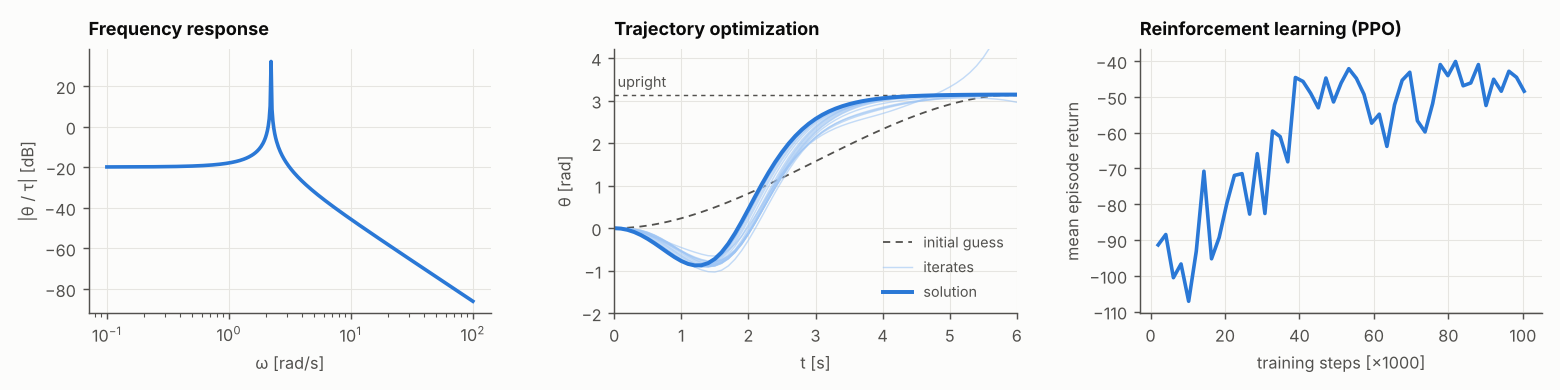
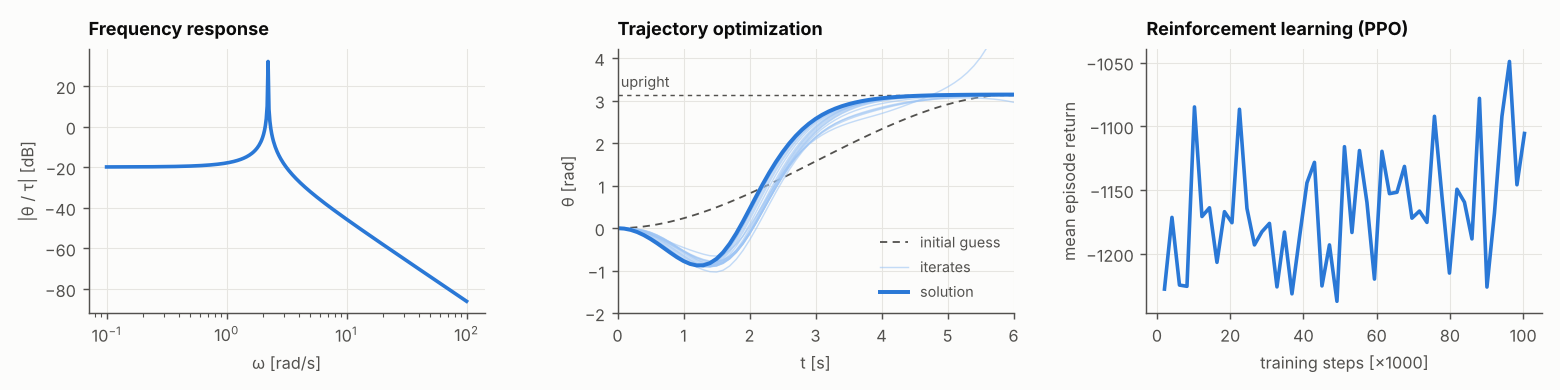
README: one problem through the planners, a custom block, minimal prose
The swing-up problem is the one every tool of sections 2 and 3 takes:
trajectory optimization, PPO (now trained on it, with gamma given so it
does not warn), value iteration, RRT and MPC; its stochastic version
evaluates them. 'Score' becomes evaluation and expected cost. A custom
block follows the first diagram: a class with f and h. The backbone is
one sentence and the map; the program equation that reused g and h, the
unused claims and the promotional phrases are gone; the learn-more list
is four lines, with plant.animate written as the method it is. From
three independent reviews and the maintainer's own.

diff --git a/docs/make_assets.py b/docs/make_assets.py
@@ -122,16 +122,9 @@ def breadth_strip() -> None:
     """The README's one equation, many tools: the frequency response, trajectory optimization, PPO."""
     import matplotlib.pyplot as plt
 
-    from minilink import (
-        Pendulum,
-        PlanningProblem,
-        QuadraticCost,
-        ReinforcementLearningPlanner,
-        Uniform,
-    )
+    from minilink import Pendulum, ReinforcementLearningPlanner
 
     plant = Pendulum()
-    up = np.array([np.pi, 0.0])
 
     # G(jω) = C (jωI − A)⁻¹ B about the hanging rest, the angle per torque
     A = plant.jacobian("f", "x", np.zeros(2))
@@ -142,12 +135,8 @@ def breadth_strip() -> None:
 
     guess, history = swing_up_iterates()
 
-    start = Uniform([np.pi - 0.5, -1.0], [np.pi + 0.5, 1.0])
-    cost = QuadraticCost.from_system(plant, x_bar=up)
-    balance = PlanningProblem(
-        plant, x0=start, cost=cost, horizon=5.0, U=plant.input_box
-    )
-    learner = ReinforcementLearningPlanner(balance, dt=0.05)
+    _, swing_up = readme_problem()
+    learner = ReinforcementLearningPlanner(swing_up, dt=0.05, gamma=0.99)
     learner.solve(n_timesteps=100_000)
     steps = np.array([h["n_timesteps"] for h in learner.history]) / 1e3
     returns = np.array([h["ep_return_mean"] for h in learner.history])

diff --git a/README.md b/README.md
@@ -18,7 +18,7 @@
   <tr>
 <td width="25%" align="center" valign="top">Cart-pole swing-up, trajectory optimization</td>
 <td width="25%" align="center" valign="top">UR5 arm, task-space impedance control<br/><a href="https://alx87grd.github.io/minilink/_static/showcase/ur5_impedance.html">interactive 3-D</a></td>
-<td width="25%" align="center" valign="top"><a href="#3-one-problem-every-planner-one-score">Racecar, model predictive control</a><br/><a href="https://alx87grd.github.io/minilink/_static/showcase/racecar_mpc.html">interactive 3-D</a></td>
+<td width="25%" align="center" valign="top"><a href="#3-one-problem-every-planner-one-evaluation">Racecar, model predictive control</a><br/><a href="https://alx87grd.github.io/minilink/_static/showcase/racecar_mpc.html">interactive 3-D</a></td>
 <td width="25%" align="center" valign="top">Rocket landing, reinforcement learning</td>
   </tr>
 </table>
@@ -48,6 +48,28 @@ diagram.plot_diagram()
 
 ![closed-loop diagram](./docs/_static/diagram_closed_loop.png)
 
+**Custom block:** just define `f` and `h`.
+
+```python
+import numpy as np
+from minilink import DynamicSystem
+
+
+class MyPendulum(DynamicSystem):
+    def __init__(self):
+        super().__init__(state_dim=2, input_dim=1, output_dim=1)
+
+    def f(self, x, u, t=0, params=None):
+        theta, dtheta = x
+        return np.array([dtheta, u[0] - 9.81 * np.sin(theta)])
+
+    def h(self, x, u, t=0, params=None):
+        return x[:1]
+
+
+diagram = pid @ MyPendulum()
+```
+
 ## 2. One equation, many tools
 
 A model is three pure functions:
@@ -59,11 +81,11 @@ dynamics, outputs and body poses. Stateless, arrays in and arrays out, so every 
 ```python
 import numpy as np
 from minilink import (
-    BallSet, Pendulum, PlanningProblem, QuadraticCost, Uniform,
+    BallSet, Pendulum, PlanningProblem, QuadraticCost,
     ReinforcementLearningPlanner, TrajectoryOptimizationPlanner,
 )
 
-plant = Pendulum()
+plant = Pendulum()  # measures its full state
 up = np.array([np.pi, 0.0])
 plant.plot_bode()
 
@@ -79,23 +101,19 @@ swing_up = PlanningProblem(
 )
 opt = TrajectoryOptimizationPlanner(swing_up, n_steps=60).solve(live_plot=True)
 
-start = Uniform([np.pi - 0.5, -1.0], [np.pi + 0.5, 1.0])
-balance = PlanningProblem(plant, x0=start, cost=cost, horizon=5.0, U=plant.input_box)
-ppo = ReinforcementLearningPlanner(balance, dt=0.05)
+ppo = ReinforcementLearningPlanner(swing_up, dt=0.05, gamma=0.99)
 ppo.solve(n_timesteps=100_000)
 ppo.plot_learning_curve()
 ```
 
 ![Frequency response, trajectory optimization and reinforcement learning on one pendulum](./docs/_static/tool_breadth.png)
 
-The same plant takes `lqr`, `kalman`, value iteration, RRT, MPC, and the rest: each is one more line.
+## 3. One problem, every planner, one evaluation
 
-## 3. One problem, every planner, one score
-
-The identical problem definition is handed to completely different solver paradigms, and every planner returns a `PlanningSolution` whose controller is itself a `System`: a feedback law closes the loop via `controller @ plant`, an open-loop plan drives it via `controller >> plant`. `compare` scores every controller on the same problem: the same model, cost, sets, and draws. Here the swing-up of section 2, with the pendulum's mass uncertain by ±20 %:
+Every planner takes the same problem and returns a controller that is itself a `System`. `compare` evaluates them on the same draws, here with the mass uncertain by ±20 %:
 
 ```python
-from minilink import DynamicProgrammingPlanner, RRTPlanner, compare
+from minilink import DynamicProgrammingPlanner, RRTPlanner, Uniform, compare
 from minilink.control import ModelPredictiveController
 
 vi_planner = DynamicProgrammingPlanner(swing_up, x_grid=(101, 101), u_grid=(11,), dt=0.05)
@@ -114,15 +132,11 @@ comparison.plot_simulated_trajectory()
 
 ![The angular rate of each controller's twenty runs](./docs/_static/comparison_runs.png)
 
-The two open-loop plans reach the goal on the nominal model and miss it when the mass changes (0 of 20 draws); the two feedback laws reach it on most draws (value iteration 20 of 20, MPC 17 of 20).
+The open-loop plans miss the goal once the mass changes (0 of 20); the feedback laws reach it (value iteration 20 of 20, MPC 17 of 20).
 
-## 4. From score to controller
+## 4. From evaluation to controller
 
-All transcriptions lower late to a single, canonical mathematical program:
-
-$$\min_z J(z; p) \quad \text{s.t.} \quad g(z; p) \ge 0, \quad h(z; p) = 0$$
-
-The score of section 3 is such a $J$: a function of every parameter in the diagram, the controller's gains and the plant's numbers alike, named by its path (`"controller.Kp"`, `"plant.m"`). The exact same equation traces under JAX without rewriting physics, so its gradient runs through the whole simulation, and the `Optimizer` tunes the controller on it. Here an impedance law brings the pendulum to rest over the uncertain mass:
+The expected cost is a differentiable function of every parameter in the loop, named by its path, so an `Optimizer` tunes a controller on its gradient. Here an impedance law brings the pendulum to rest under the uncertain mass:
 
 ```python
 import jax
@@ -133,43 +147,32 @@ rest = PlanningProblem(plant, x0=[2.0, 0.0], horizon=5.0, cost=rest_cost)
 task = rest.replace(distributions={"plant": {"m": mass}})
 evaluator = task.compile(Impedance(Kp=1.0, Kd=1.0), backend="jax")
 
-score = lambda params: evaluator.evaluate(params, n_trials=20).objective
-gradient = jax.grad(score)(evaluator.params)
+expected_cost = lambda params: evaluator.evaluate(params, n_trials=20).objective
+gradient = jax.grad(expected_cost)(evaluator.params)  # through the whole simulation
 
 gains = ["controller.Kp", "controller.Kd"]
 bounds = {"controller.Kp": (0.0, 50.0), "controller.Kd": (0.0, 20.0)}
 program = evaluator.program(gains, bounds=bounds, n_trials=20)
-best = Optimizer(program).solve()  # Kp = 0.78, Kd = 3.54: the score falls from 19.3 to 11.0
+best = Optimizer(program).solve()  # Kp = 0.78, Kd = 3.54; expected cost 19.3 → 11.0
 ```
-
-- **Pluggable solvers:** `method=` picks one: `l-bfgs`, `slsqp`, `trust-constr` (SciPy), `gd`, `adam` (first-order), `ipopt`.
-- **Opt-in acceleration:** pure NumPy remains the default classroom engine; JAX is activated with a single flag (`backend="jax"`), and batches 1,000 rollouts in 0.4 s on a cloud CPU against about 50 s in a NumPy loop.
 
 ## The Minilink backbone
 
-Three mathematical foundations hold the framework together:
-1. **The model (`System`):** continuous differential equations $\dot{x} = f(x, u, t; p)$ and observations $y = h(x, u, t; p)$.
-2. **The task (`PlanningProblem`):** the model paired with boundary sets $\mathcal{X}, \mathcal{U}, \mathcal{X}_f$, cost $J$, and time horizon $t_f$.
-3. **The solver boundary (`MathematicalProgram` & `Optimizer`):** a standard nonlinear program $\min_z J(z)$ s.t. $g(z) \ge 0,\ h(z) = 0$ connecting problems to plug-and-play numerical solvers.
-
-One differentiable path connects modeling, analytical control, trajectory optimization, and learning:
+Three objects hold it together: the model (`System`), the task (`PlanningProblem`) and the solver (`MathematicalProgram` and `Optimizer`).
 
 ![The Minilink Backbone](./docs/_static/pipeline_map.png)
 
-*Full pipeline reference: [docs/pipelines.md](https://github.com/alx87grd/minilink/blob/main/docs/pipelines.md).*
-
 ## What Minilink is not
 
-1. **Not a heavy multibody contact engine:** for complex contact or high-DoF meshes, wrap an external multibody simulator as a `System` leaf.
-2. **Not a sparse NLP modeling language:** Minilink programs and solvers do not exploit sparse Jacobian structure.
-3. **Continuous time is primary:** dynamics $f$ represent instantaneous rates ($\dot{x} = dx/dt$), not discrete next-step maps; a clock is applied from outside with `%`.
+- Not a multibody contact engine: wrap one as a `System` leaf.
+- Not a sparse NLP modeling language.
+- Continuous time first: `f` is a rate, and `%` puts a block on a clock.
 
-## Learn more and tutorials
+## Learn more
 
-- [Showcase notebook](https://github.com/alx87grd/minilink/blob/main/examples/tutorial/showcase_minilink.ipynb): this page run end to end, with the plots and animations; about a minute to run.
-- [Tutorials](https://github.com/alx87grd/minilink/tree/main/examples/tutorial): three layers: `basics/` (model, connect, simulate; start with `01_minilink`), `core/` (the foundation objects and the problem pipeline), `advanced/` (discrete and hybrid loops, optimal control, MPC, RL, differentiable loops).
-- [Teaching notebooks](https://github.com/alx87grd/teaching): course and topic notebooks in their own repository: control, dynamic programming, LQR, MPC, reinforcement learning.
-- **Interactive play and 3-D:** `plant.game()` drives plants with keyboard or gamepad; `animate(traj, renderer="meshcat")` plays a trajectory in an interactive 3-D viewer ([UR-5 impedance control](https://alx87grd.github.io/minilink/_static/showcase/ur5_impedance.html) • [racecar MPC](https://alx87grd.github.io/minilink/_static/showcase/racecar_mpc.html)).
-- [Interactive pitch deck](https://alx87grd.github.io/minilink/presentation.html) · [API reference](https://alx87grd.github.io/minilink/).
+- [Showcase notebook](https://github.com/alx87grd/minilink/blob/main/examples/tutorial/showcase_minilink.ipynb): this page with its plots and animations.
+- [Tutorials](https://github.com/alx87grd/minilink/tree/main/examples/tutorial): `basics/`, `core/`, `advanced/`.
+- [Teaching notebooks](https://github.com/alx87grd/teaching): control, dynamic programming, LQR, MPC, reinforcement learning.
+- [Pitch deck](https://alx87grd.github.io/minilink/presentation.html) · [API reference](https://alx87grd.github.io/minilink/) · [Pipelines](https://github.com/alx87grd/minilink/blob/main/docs/pipelines.md)
 
 Minilink is the successor of [pyro](https://github.com/SherbyRobotics/pyro).
